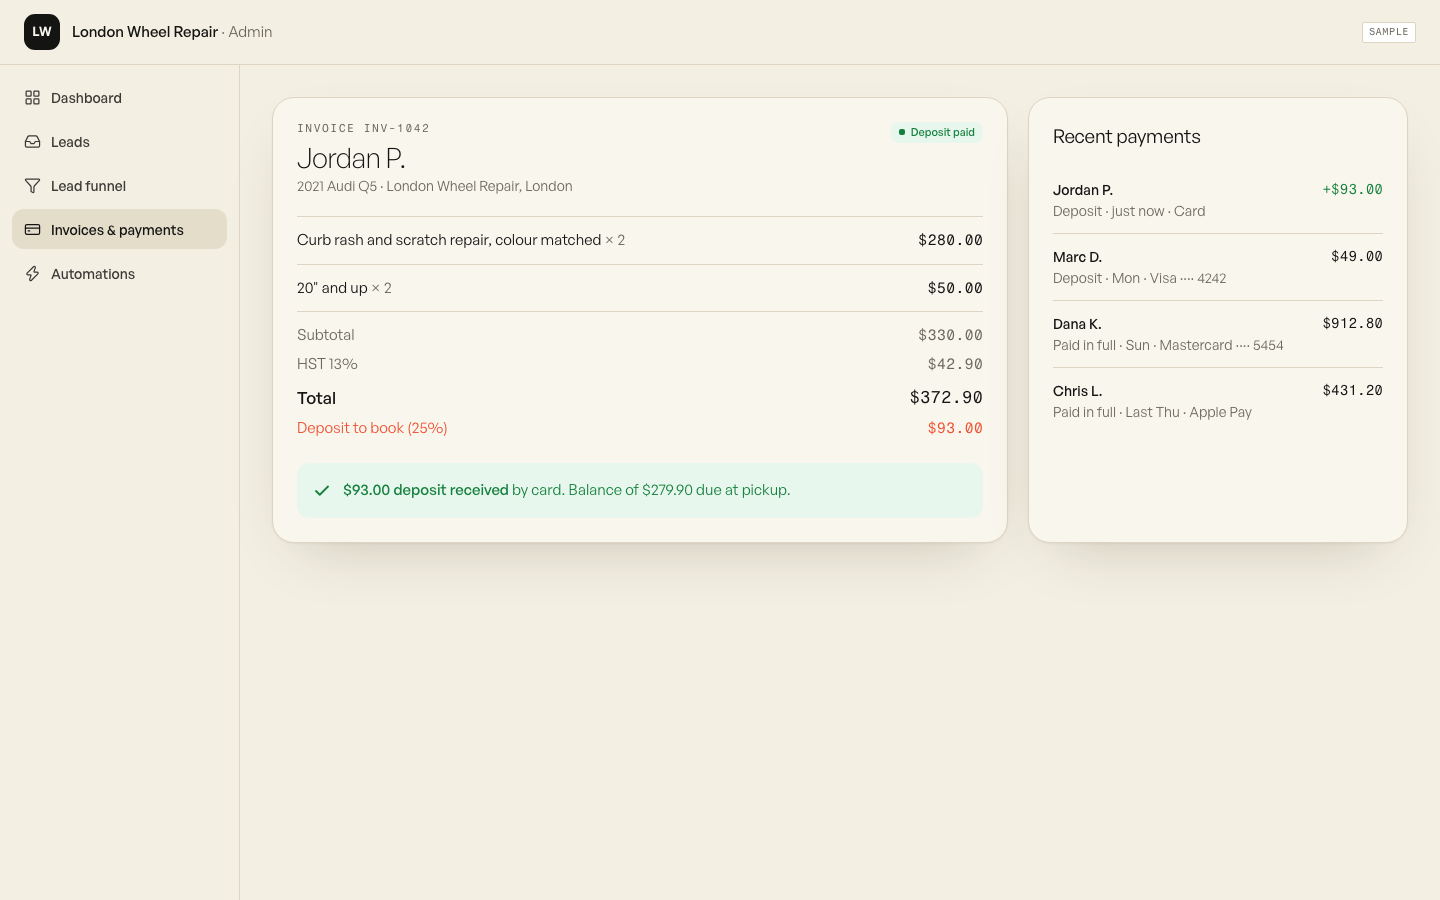
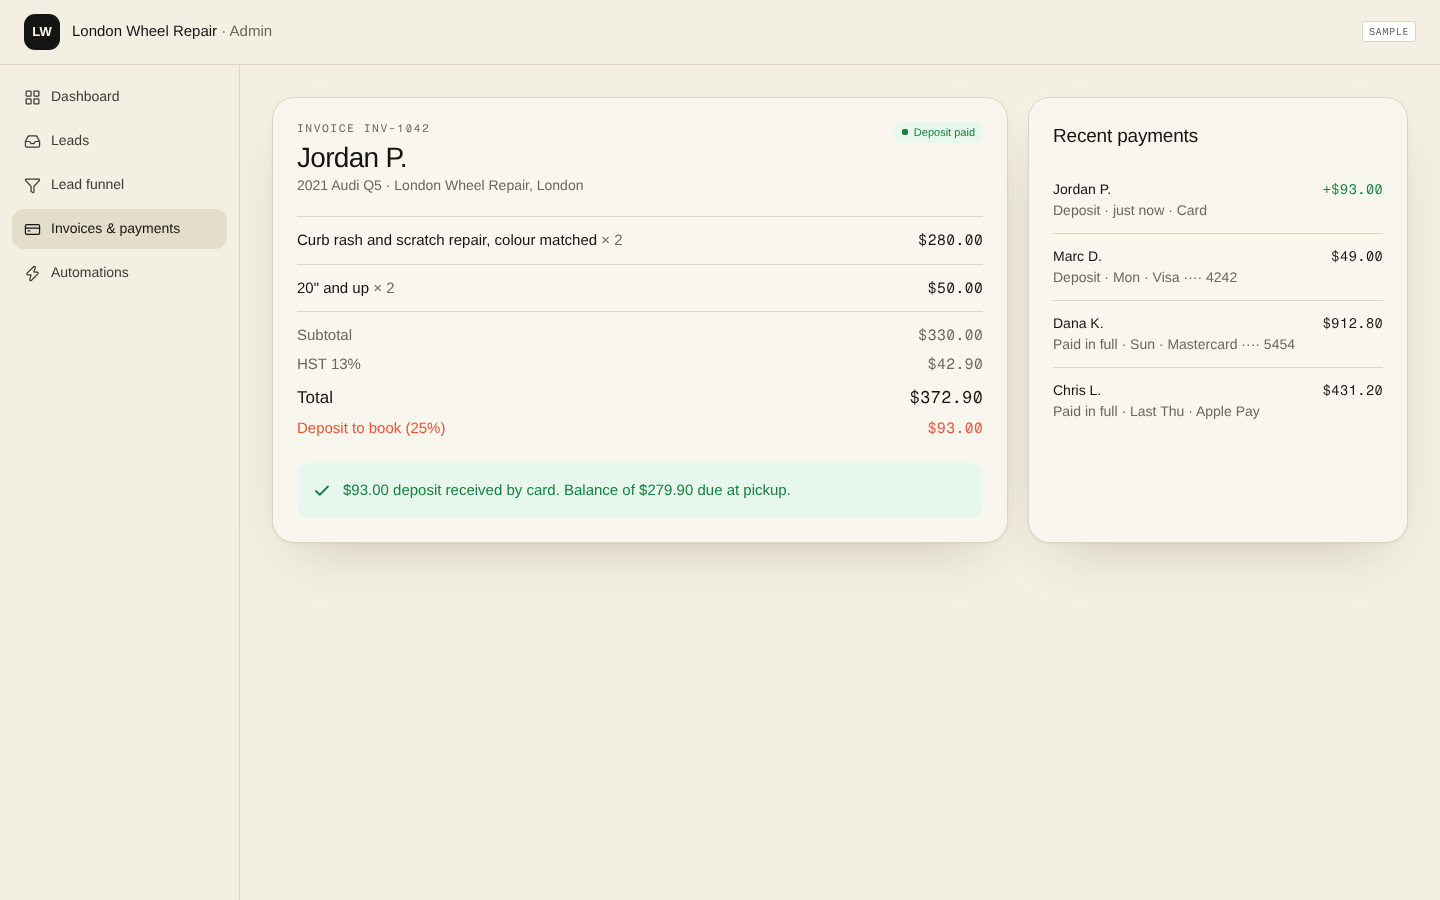
Self-host the Remotion Google Fonts and refresh London demo shots
Instrument Serif, Fragment Mono and Geist Mono now load from public/fonts,
so renders work without network access from the render browser. The
London Wheel Repair screenshots are retaken from the current cream demo.

Claude-Session: https://claude.ai/code/session_01FGQQwvhpXGa3aLZddRPghc

diff --git a/promo-remotion/src/pitch/common.ts b/promo-remotion/src/pitch/common.ts
@@ -1,6 +1,4 @@
 import { loadFont } from "@remotion/fonts";
-import { loadFont as loadFragmentMono } from "@remotion/google-fonts/FragmentMono";
-import { loadFont as loadInstrumentSerif } from "@remotion/google-fonts/InstrumentSerif";
 import { Easing, interpolate, spring, staticFile } from "remotion";
 
 // Shared bits for the per-shop pitch video (ShopPitch). Same world as the shop demos:
@@ -9,8 +7,9 @@ import { Easing, interpolate, spring, staticFile } from "remotion";
 for (const w of ["300", "400", "500", "600"]) {
   loadFont({ family: "General Sans", url: staticFile(`fonts/general-sans/GeneralSans-${w}.woff2`), weight: w });
 }
-loadInstrumentSerif("italic", { weights: ["400"], subsets: ["latin"] });
-loadFragmentMono("normal", { weights: ["400"], subsets: ["latin"] });
+// Latin subsets from Google Fonts, self-hosted so a render never needs the network.
+loadFont({ family: "Instrument Serif", url: staticFile("fonts/instrument-serif-italic.woff2"), style: "italic", weight: "400" });
+loadFont({ family: "Fragment Mono", url: staticFile("fonts/fragment-mono.woff2"), weight: "400" });
 
 export const SANS = "General Sans, sans-serif";
 export const SERIF = "Instrument Serif, serif";

diff --git a/promo-remotion/src/fonts.ts b/promo-remotion/src/fonts.ts
@@ -1,5 +1,4 @@
 import { loadFont } from "@remotion/fonts";
-import { loadFont as loadGeistMono } from "@remotion/google-fonts/GeistMono";
 import { staticFile } from "remotion";
 
 // Switzer is the WheelPro site's UI face (local variable font), Geist Mono is for times and amounts.
@@ -9,4 +8,8 @@ loadFont({
   weight: "100 900",
 });
 
-loadGeistMono("normal", { weights: ["400", "500"], subsets: ["latin"] });
+loadFont({
+  family: "Geist Mono",
+  url: staticFile("fonts/geist-mono-variable.woff2"),
+  weight: "100 900",
+});
